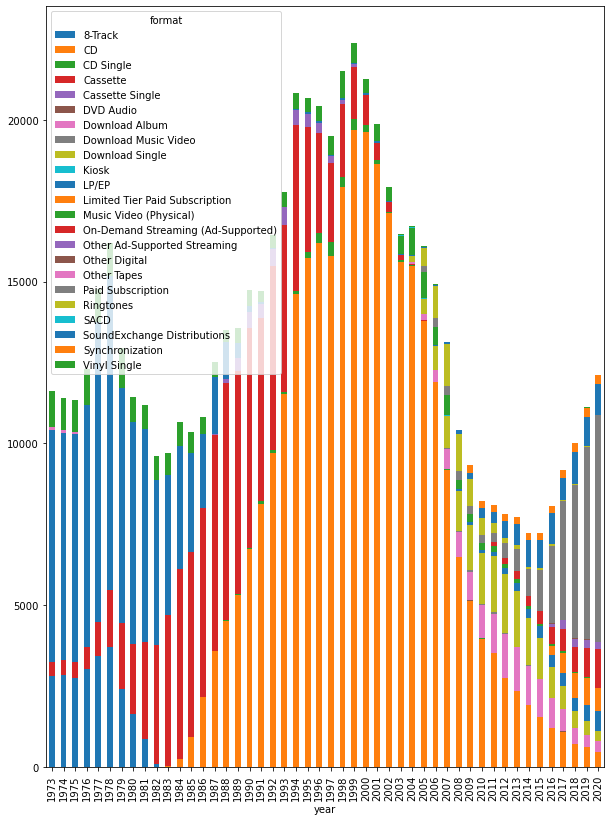
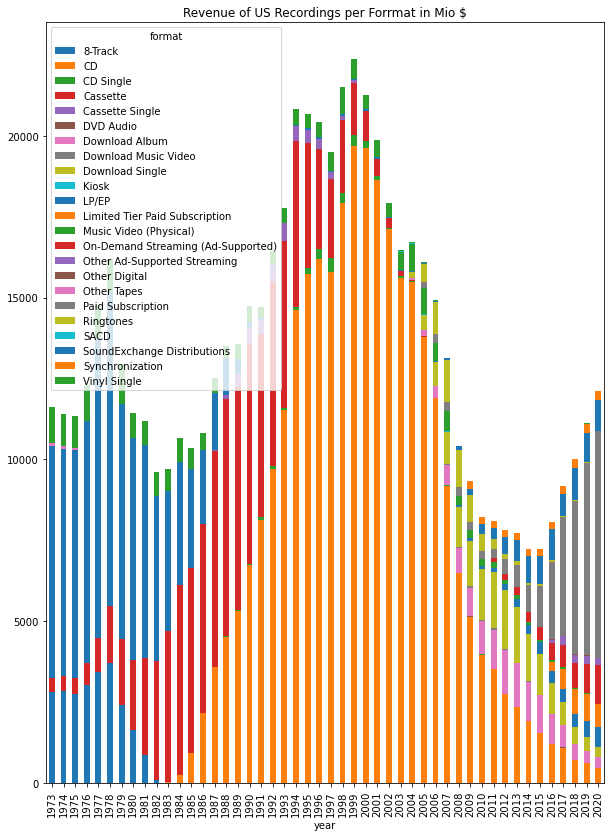
transparency fixed

diff --git a/MusicData/analytics/artistsAnalytics.py b/MusicData/analytics/artistsAnalytics.py
@@ -11,10 +11,19 @@ ANALYTICS OF ARTISTS
 # libraries
 import numpy as np # linear algebra
 import pandas as pd # data processing, CSV/JSON file I/O
+import matplotlib.pyplot as plt # only used to set bgcolor of figure
+
+plt.rcParams.update({
+    "figure.facecolor": (1.0, 1.0, 1.0, 1.0),  # white with no transparency
+    "savefig.facecolor": (1.0, 1.0, 1.0, 1.0)  # white with no transparency
+})
 
 # ---- data prep ----
 
 # load data frame
+# Hint: Relative path works when executeed as Jupyter notebook.
+#       Where necessary fix the file path to match the current working 
+#       direectory of your IDE by removing '../' or using an absolute path.
 df = pd.read_json('../data/famousArtists.json') # get dataframe
 
 print("Analyze famousArtists.json")
@@ -63,7 +72,7 @@ print(first20)
 print('\nIndividual musicians vs music groups counted:')
 print(df.groupby('isGroup')['isGroup'].count().sort_values(ascending=False))
 genres = df.groupby('isGroup')['isGroup'].value_counts().unstack()
-genres.plot.bar(figsize=(10, 10), title='Individual Artists vs. Music Bands')
+genres.plot.bar(title='Individual Artists vs. Music Bands')
 
 # analyse countries
 print('\nCountries counted and sorted:')
@@ -94,6 +103,5 @@ filteredGenre2.plot.bar(stacked=True, figsize=(10, 10), title='Genres in Top 6 C
 criterion3 = (df['country'].isin(['US', 'GB', 'JM', 'CA', 'FR', 'DE'])) & (df['genre'].isin(['Jazz', 'Rock', 'Pop', 'Electronic', 'R&B', 'Indie']))
 filteredGenre3 = df[criterion3].groupby('genre')['country'].value_counts().unstack().T
 filteredGenre3.plot.bar(stacked=True, figsize=(10, 10), title='Top 5 Genres in Top 6 Countries')
-
 
 # %%

diff --git a/MusicData/analytics/artistsEnhanced.py b/MusicData/analytics/artistsEnhanced.py
@@ -5,7 +5,7 @@
 Created on Wed Jan 5 08:46:26 2022
 @author: Philipp Ackermann
 
-ANALYTICS OF ARTISTS
+ENHANCED ANALYTICS OF ARTISTS
 """
 
 # libraries
@@ -13,6 +13,12 @@ import numpy as np # linear algebra
 import pandas as pd # data processing, CSV/JSON file I/O
 import datetime as dt
 import gender
+import matplotlib.pyplot as plt # only used to set bgcolor of figure
+
+plt.rcParams.update({
+    "figure.facecolor": (1.0, 1.0, 1.0, 1.0),  # white with no transparency
+    "savefig.facecolor": (1.0, 1.0, 1.0, 1.0)  # white with no transparency
+})
 
 # Calculate year when career start
 # For individual artists, we add assumed 20 years to their birthdate
@@ -56,6 +62,9 @@ def getGender(fullname, isGroup):
 # ---- data prep ----
 
 # load data frame
+# Hint: Relative path works when executeed as Jupyter notebook.
+#       Where necessary fix the file path to match the current working 
+#       direectory of your IDE by removing '../' or using an absolute path.
 df = pd.read_json('../data/famousArtists.json') # get dataframe
 
 print("Enhance famousArtists.json")

diff --git a/MusicData/infovis/artistsOverTime.py b/MusicData/infovis/artistsOverTime.py
@@ -29,6 +29,8 @@ def startYear(lifespan, isGroup):
             return dt.datetime.strptime(str(int(lifespan[0:4]) + 20), '%Y').year
         
 # load data frame
+# Hint: Where necessary fix the file path to match the current working 
+#       direectory of your IDE by removing '../' or using an absolute path.
 df = pd.read_json('data/famousArtists.json') # get dataframe
 
 # data cleansing
@@ -107,11 +109,11 @@ plt.annotate("",
 plt.annotate("Career Building Gap", xy =(2001.5, 31), xycoords ='data', fontsize=11, weight='bold')
 fig.text(0.74, 0.52, 
 '''There is a career building 
-gap of ~20 years before you 
-get famous. This is the time 
-of releasing new albums 
-and going on tours to 
-become well-known.
+gap of ~20 years before  
+artists get famous. This is   
+the time of releasing new  
+albums and going on tours  
+to become well-known.
 '''
 , fontsize=12, fontweight='light', fontfamily='serif')
 #plt.arrow( 2011, 41, 0, -5, fc="k", ec="k", head_width=0.9, head_length=2, edgecolor ='green')

diff --git a/MusicData/infovis/artistsBands.py b/MusicData/infovis/artistsBands.py
@@ -13,6 +13,8 @@ import pandas as pd # data processing, CSV/JSON file I/O (e.g. pd.read_csv)
 import matplotlib.pyplot as plt
 
 # load data frame
+# Hint: Where necessary fix the file path to match the current working 
+#       direectory of your IDE by removing '../' or using an absolute path.
 df = pd.read_json('data/famousArtists.json') # get dataframe
 
 # styling
@@ -64,7 +66,7 @@ for i in ab_ratio.index:
                    color='black')
 
 # title & subtitle
-fig.text(0.0275,0.86,'Artists and Bands Distribution', fontfamily='serif',fontsize=15, fontweight='bold')
+fig.text(0.0275,0.86,'Artists versus Bands', fontfamily='serif',fontsize=15, fontweight='bold')
 fig.text(0.0275,0.74,'Individual musicians get more likely famous than bands.',fontfamily='serif',fontsize=12)  
 fig.text(0.2, 0.03, 'Data Source: https://music.metason.net/famousArtists.html', fontsize=9, fontfamily='sans-serif', color=color3)
 

diff --git a/MusicData/analytics/marketAnalytics.py b/MusicData/analytics/marketAnalytics.py
@@ -11,10 +11,19 @@ ANALYTICS OF US MUSIC MARKET
 # libraries
 import numpy as np # linear algebra
 import pandas as pd # data processing, CSV/JSON file I/O
+import matplotlib.pyplot as plt # only used to set bgcolor of figure
+
+plt.rcParams.update({
+    "figure.facecolor": (1.0, 1.0, 1.0, 1.0),  # white with no transparency
+    "savefig.facecolor": (1.0, 1.0, 1.0, 1.0)  # white with no transparency
+})
 
 # ---- data prep ----
 
 # load data frame
+# Hint: Relative path works when executeed as Jupyter notebook.
+#       Where necessary fix the file path to match the current working 
+#       direectory of your IDE by removing '../' or using an absolute path.
 df = pd.read_csv('../data/USMusicMarket.csv', header=0, encoding='utf8') # get dataframe
 
 print("Analyze USMusicMarket.csv")

diff --git a/MusicData/analytics/albumsAnalytics.py b/MusicData/analytics/albumsAnalytics.py
@@ -11,10 +11,19 @@ ANALYTICS OF ALBUMS
 # libraries
 import numpy as np # linear algebra
 import pandas as pd # data processing, CSV/JSON file I/O
+import matplotlib.pyplot as plt # only used to set bgcolor of figure
+
+plt.rcParams.update({
+    "figure.facecolor": (1.0, 1.0, 1.0, 1.0),  # white with no transparency
+    "savefig.facecolor": (1.0, 1.0, 1.0, 1.0)  # white with no transparency
+})
 
 # ---- data prep ----
 
 # load data frame
+# Hint: Relative path works when executeed as Jupyter notebook.
+#       Where necessary fix the file path to match the current working 
+#       direectory of your IDE by removing '../' or using an absolute path.
 df = pd.read_json('../data/recomAlbums.json')
 
 print("Analyze recomAlbums.json")

diff --git a/MusicData/infovis/artistsTopCountries.py b/MusicData/infovis/artistsTopCountries.py
@@ -20,6 +20,9 @@ color3 = '#434040' # dark grey
 color4 = '#CCBFBF' # light grey
 plt.rcParams['figure.dpi'] = 144
 
+# load data frame
+# Hint: Where necessary fix the file path to match the current working 
+#       direectory of your IDE by removing '../' or using an absolute path.
 df = pd.read_json('data/famousArtists.json') # get dataframe
 
 print("Analyze famousArtists.json")

diff --git a/MusicData/README.md b/MusicData/README.md
@@ -2,7 +2,7 @@
 
 By Philipp Ackermann, philipp.ackermann@zhaw.ch, ZHAW School of Engineering
 
-Zurich, January 2022 
+Zurich, January 2022
 
 ---
 
@@ -34,8 +34,8 @@ ArtistInfo is available as App for iOS and macOS as well as a Web front-end at [
 ### Artists
 
 - Famous musicians and bands
-  -  Data: [data/famousArtists.json](data/famousArtists.json)
-  -  Web: https://music.metason.net/famousArtists.html 
+  - Data: [data/famousArtists.json](data/famousArtists.json)
+  - Web: https://music.metason.net/famousArtists.html
 - Data was collected in 2019 by Web crawling of
   - top100 lists of music community Web sites
 - More details on Atists is available via
@@ -46,7 +46,7 @@ ArtistInfo is available as App for iOS and macOS as well as a Web front-end at [
 
 - Recommended albums
   - Data: [data/recomAlbums.json](data/recomAlbums.json)
-  - Web: https://music.metason.net/greatRecords.html 
+  - Web: https://music.metason.net/greatRecords.html
 - Data was collected in 2019 by Web crawling of
   - best-of lists from music community Web sites
   - top ratings of e-commerce Web sites selling music (e.g., Amazon)
@@ -55,13 +55,16 @@ ArtistInfo is available as App for iOS and macOS as well as a Web front-end at [
   - Sample URL: [https://music.metason.net/artistinfo?name=Radiohead&title=Man%20Of%20War](https://music.metason.net/artistinfo?name=Radiohead&title=Man%20Of%20War)
 
 ### US Music Industry Revenues
-Sales data from the Recording Industry Association of America (RIAA)
+
+Sales data from the Recording Industry Association of America (RIAA).
+
 - 50+ years of sales by media, from vinyl to streaming
 - Data: [data/USMusicMarket.csv](data/USMusicMarket.csv)
-- Source: https://www.riaa.com/u-s-sales-database/ 
+- Source: https://www.riaa.com/u-s-sales-database/
 - Revenue values are in Millions USD (adjusted for inflation)
 
 ---
+
 ## Info Vis Process
 
 Crreating convincing Info Vis is typically an iterative process:
@@ -85,26 +88,28 @@ Crreating convincing Info Vis is typically an iterative process:
 *Figure 1: The Process Workflow for Information Visualization*
 
 The good news:
+
 - Data Processing for the music data in this repository is already done for you
 - Content is already unified according to classifications for
   - Musical genres & styles: https://music.metason.net/genres.html
-   - Music instruments: https://music.metason.net/instruments.html - World regions & countries: https://music.metason.net/regions.html
+  - Music instruments: https://music.metason.net/instruments.html - World regions & countries: https://music.metason.net/regions.html
 - Data Analytics is prepared
-  - Using __Pandas__ for data mangling and simple data graphics
+  - Using __pandas__ for data mangling and simple data graphics
   - For all data sources there are templates available
   - Python code: `analytics/*Analytics.py`
   - See sample data graphics below
 - Data Enhancing is examplified
-  -  Python code: `analytics/*Enhancing.py`
+  - Python code: `analytics/*Enhancing.py`
 - Information Visualization has a few samples
-  - Using __Matplotlib__ for creating convincing info vis
+  - Using __matplotlib__ for creating convincing info vis
   - Python code: `infovis/*.py`
   - See sample info vis below
 
 ---
+
 ## Sample Data Graphics used for Data Analytics
 
-Visual Data Mining is a critical component in exploratory data analysis. You quickly create plots in order to better understand your data. These data graphics do not have to be perfect. We therefore use the plot functionality that Pandas is providing. These charts do not look great but are easy to generate due to some automatisms (data mapping, dealing with missing values, ...)
+Visual Data Mining is a critical component in exploratory data analysis. You quickly create plots in order to better understand your data. These data graphics do not have to be perfect. We therefore use the plot functionality that pandas is providing. These charts do not look great but are easy to generate due to some automatisms (data mapping, dealing with missing values, ...)
 
 ### Album Data
 
@@ -166,11 +171,11 @@ All good data visualizations start with a good question.
   - Already done: see `Artists versus Bands` below
   - Sample code: [infovis/artistsBands.py](infovis/artistsBands.py)
 - Get individual artists more famous than bands in recent years?
-  -  Already done: see `Famous Mussicians and Bands over the Last 100 Years` below
-  -  Sample code: [infovis/artistsOverTime.py](infovis/artistsOverTime.py)
+  - Already done: see `Famous Mussicians and Bands over the Last 100 Years` below
+  - Sample code: [infovis/artistsOverTime.py](infovis/artistsOverTime.py)
 - What are the most used words in album titles?
-  -   Already done: see `Most Used Words in Title of Recommended Albums`below
-  -   --> Sample code: [infovis/wordsInTitle.py](infovis/wordsInTitle.py)
+  - Already done: see `Most Used Words in Title of Recommended Albums`below
+  - --> Sample code: [infovis/wordsInTitle.py](infovis/wordsInTitle.py)
 - What are the top 10 countries where famous musicians are coming from?
   - Already done: see below
 - How do US vs. UK artists compare over years?
@@ -183,13 +188,13 @@ All good data visualizations start with a good question.
 - At which age of the artist have famous albums typically been released?
 - ...
 
-___
+---
 
 ## Sample Information Visualization
 
-When preparing visualizations for an audience (for a report, a company presentation, a Web page, ...), attention must be paid to many details. You therefore want to have control over the details of your generated charts. A very prominent data vis library used in the Python community is **matplotlib**. It is by the way the vis library under the hood of Pandas plotting functionality. Pandas internaly calls matplotlib functions to create charts.
+When preparing visualizations for an audience (for a report, a company presentation, a Web page, ...), attention must be paid to many details. You therefore want to have control over the details of your generated charts. A very prominent data vis library used in the Python community is **matplotlib**. It is by the way the vis library under the hood of pandas plotting functionality. Pandas internaly calls matplotlib functions to create charts.
 
-Matplotlib has many plotting methods that make nearly any kind of chart imaginable (an exception is the visualization of hierarchical data like tree structures). Via an object-oriented interface you have control over all apects of data charts (layout, size, color, text, fonts, axis, ticks, etc.). This makes matplotlib very powerful but not easy to learn. Take this as a challenge ... 
+Matplotlib has many plotting methods that make nearly any kind of chart imaginable (an exception is the visualization of hierarchical data like tree structures). Via an object-oriented interface you have control over all apects of data charts (layout, size, color, text, fonts, axis, ticks, etc.). This makes matplotlib very powerful but not easy to learn. Take this as a challenge ...
 
 ### Styling
 
@@ -226,6 +231,17 @@ Some examples of information visualization destilled from the analyzed music dat
 
 Start your lab work ...
 
+### Setup Your Environment
+
+1. Clone this repository to your computer
+2. Install [panda](https://pandas.pydata.org) and [matplotlib](https://matplotlib.org) when not already done
+3. Run the sample code
+   - Hint: where necessary fix the file path to the data to match the current working directory of your IDE
+   - For analytics tasks the code is run as Jupyter notebook to interactively explore the data (charts are not saved)
+   - The info vis programs run as pure python code which save the generated graphics as PNG and SVG files
+4. Study the sample code
+5. Start coding by making a copy of the corresponding sample code
+
 ### Perform Data Analytics Tasks
 
 - Further explore content of music data
@@ -235,12 +251,12 @@ Start your lab work ...
 - Filter data (slice)
 - Shape data (group, pivot, stack/unstack)
 - Enhance data (deduce or join)
-- Use visual data mining to gain insights (using Pandas plots)
+- Use visual data mining to gain insights (using pandas plots)
 
 ### Develop Convincing Info Vis
 
 - Ask relevant questions
-- Create eye-catching and attention-grabbing Info Vis (using Matplotlib)
+- Create eye-catching and attention-grabbing Info Vis (using matplotlib)
 - Attract the reader's eye by highlighting important aspects
 - Tell a story, or at least have an interesting message
 - ...
@@ -254,18 +270,18 @@ Start your lab work ...
 
 - Get gender from name in Python:
   - https://github.com/Bemmu/gender-from-name
- - Word Cloud
-   - https://github.com/amueller/word_cloud
+- Word Cloud
+  - https://github.com/amueller/word_cloud
 
 ### Info Vis Hints
 
 - Overview first, then details
-- Focus by Reduction
-  -  Showing all does often confuse
-  -  Reduce dimensions
-  -  Filter to interesting aspects
-- Compare 
-  - 2 or 3 selections
+- Focus by reduction
+  - Showing all does often confuse
+  - Reduce dimensions
+  - Filter to interesting aspects
+- Compare
+  - 2 or 3 selections side-by-side
   - over time
 
 ### Coding Tips
